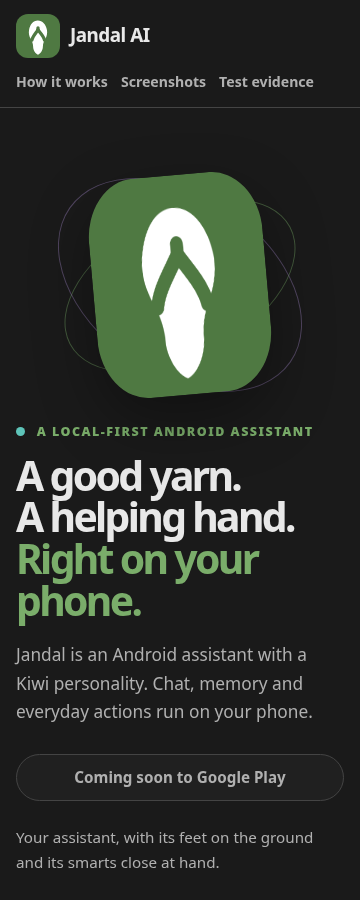
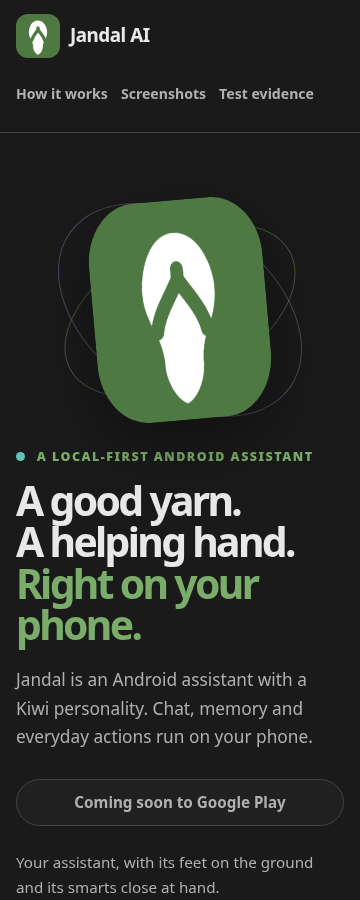
fix(#1754): improve web link touch targets

diff --git a/site/styles.css b/site/styles.css
@@ -48,7 +48,7 @@ img { display: block; max-width: 100%; }
 .brand img { border-radius: 12px; }
 .brand span { font-size: 1.18rem; }
 .site-header nav, .site-footer nav { display: flex; flex-wrap: wrap; align-items: center; gap: 8px 24px; }
-.site-header nav a, .site-footer nav a { color: var(--muted); text-decoration: none; font-size: .94rem; font-weight: 600; }
+.site-header nav a, .site-footer nav a { display: inline-flex; min-height: 48px; align-items: center; color: var(--muted); text-decoration: none; font-size: .94rem; font-weight: 600; }
 
 .hero { min-height: 570px; display: grid; grid-template-columns: 1.15fr .85fr; align-items: center; gap: 36px; padding-block: 76px 84px; }
 .hero-copy { max-width: 660px; }
@@ -83,7 +83,7 @@ h1 span { color: var(--green); }
 .privacy-inner { width: min(900px, calc(100% - 40px)); min-height: 300px; margin-inline: auto; display: grid; grid-template-columns: 72px 1fr; align-items: center; gap: 24px; padding-block: 52px; }
 .privacy-mark { display: grid; width: 64px; height: 64px; place-items: center; border-radius: 22px; background: var(--green); color: #fff; font-size: 2rem; font-weight: 800; }
 .privacy-inner > div:last-child > p:not(.eyebrow) { max-width: 700px; color: var(--muted); font-size: 1.05rem; }
-.text-link { display: inline-block; font-weight: 750; }
+.text-link { display: inline-flex; min-height: 48px; align-items: center; font-weight: 750; }
 
 .screenshots-section { padding-bottom: 94px; }
 .screenshots { display: grid; grid-template-columns: repeat(5, minmax(0, 1fr)); gap: 14px; align-items: start; }
